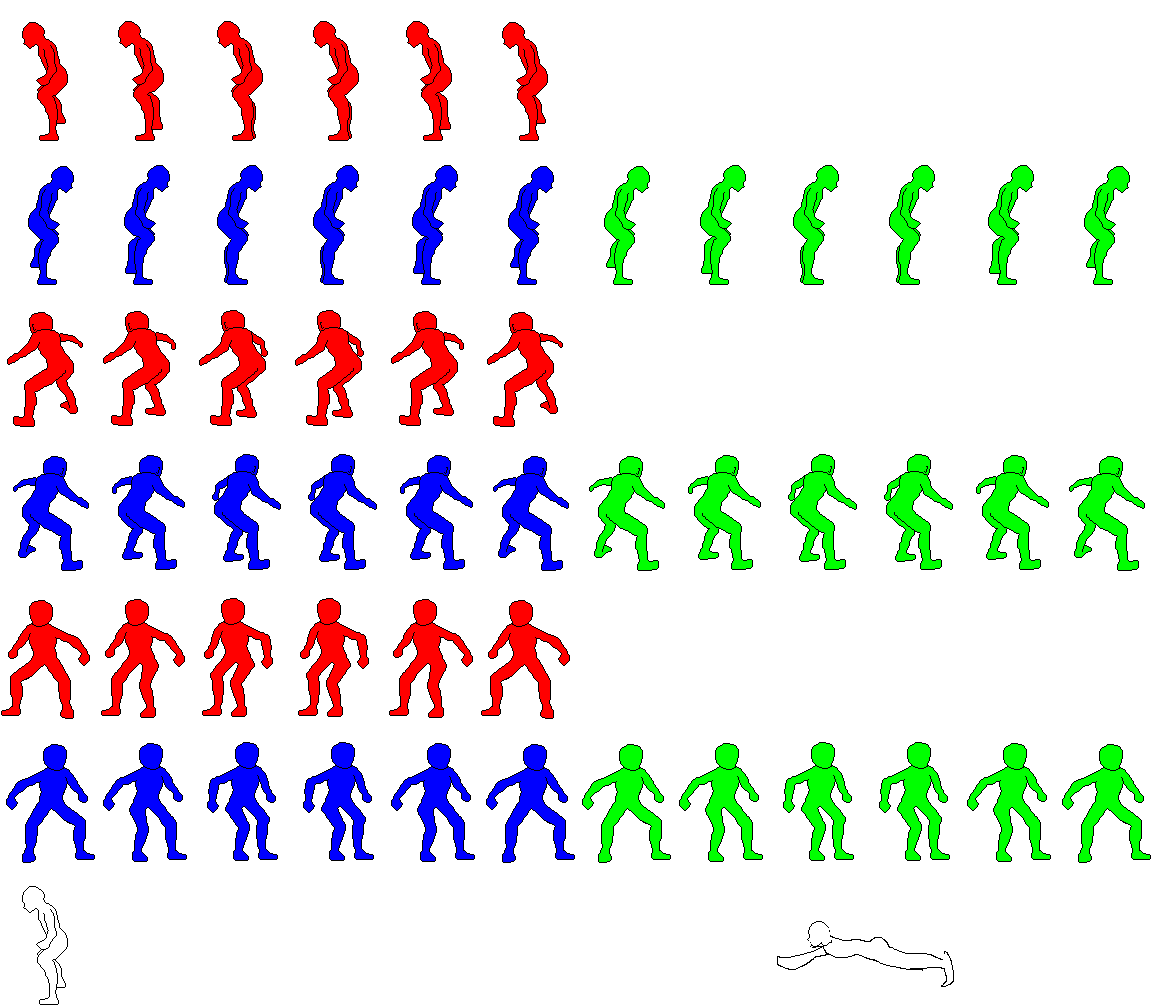
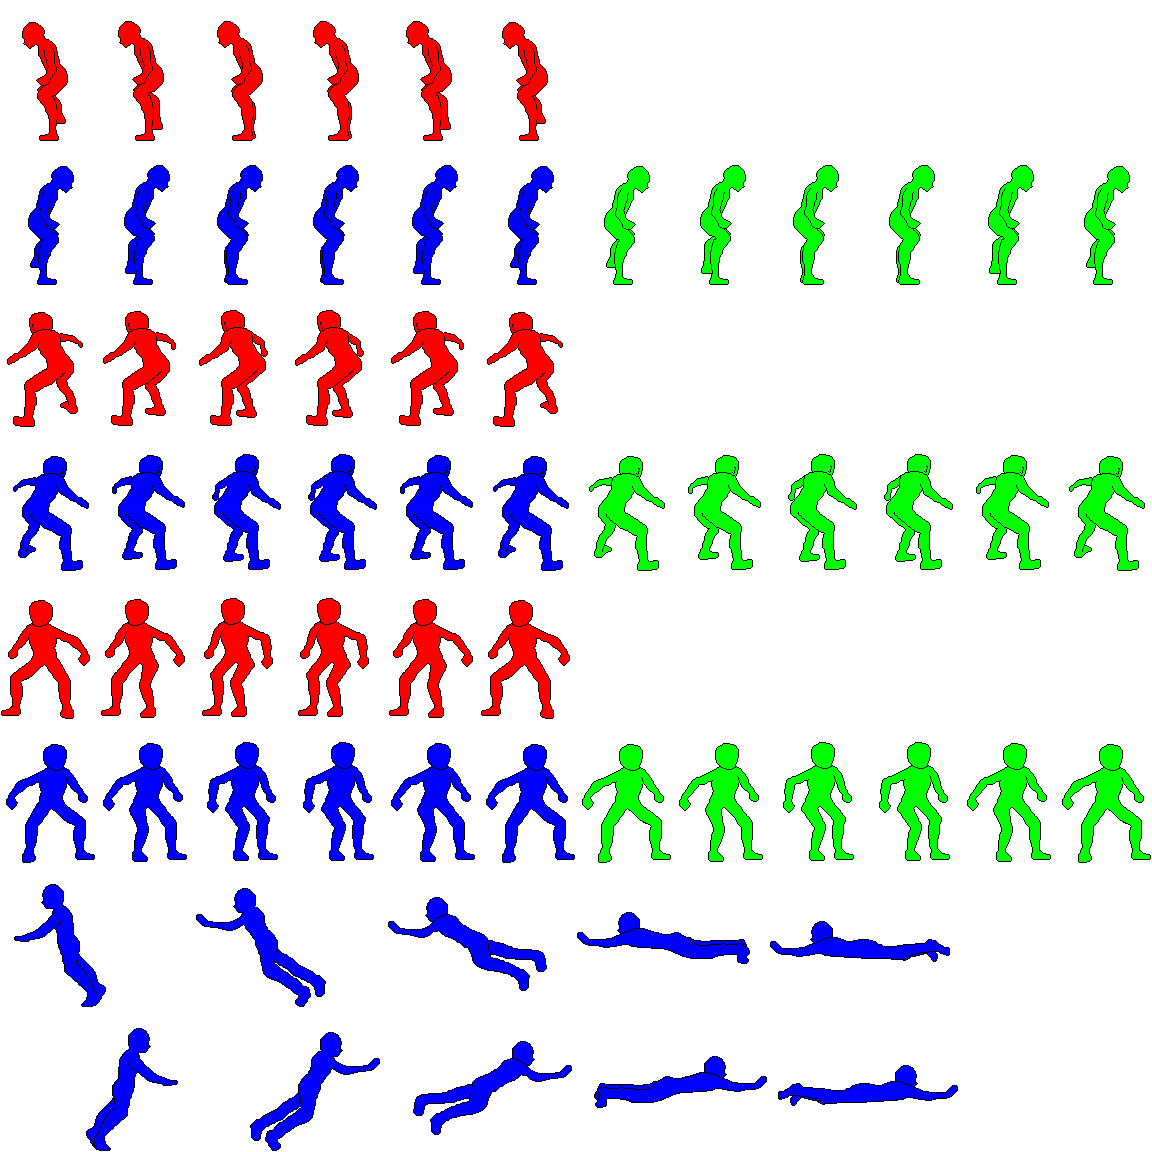
anime

diff --git a/client_win.c b/client_win.c
@@ -479,13 +479,16 @@ void WindowEvent(int clientID,int now)
                         case up_right_dir:
                             gClients[clientID].poi.y = gClients[clientID].poi.y-5;
                             gClients[clientID].poi.x = gClients[clientID].poi.x+5;
+                            chara_rect[clientID].y =1008;
                             break;
                         case right_dir:
                             gClients[clientID].poi.x = gClients[clientID].poi.x+5;
+                            chara_rect[clientID].y =1008;
                             break;
                         case right_down_dir:
                             gClients[clientID].poi.x = gClients[clientID].poi.x+5;
                             gClients[clientID].poi.y = gClients[clientID].poi.y+5;
+                            chara_rect[clientID].y =1008;
                             break;
                         case down_dir:
                             gClients[clientID].poi.y = gClients[clientID].poi.y+5;
@@ -493,13 +496,16 @@ void WindowEvent(int clientID,int now)
                         case down_left_dir:
                             gClients[clientID].poi.y = gClients[clientID].poi.y+5;
                             gClients[clientID].poi.x = gClients[clientID].poi.x-5;
+                            chara_rect[clientID].y =864;
                             break;
                         case left_dir:
                             gClients[clientID].poi.x = gClients[clientID].poi.x-5;
+                            chara_rect[clientID].y =864;
                             break;
                         case left_up_dir:
                             gClients[clientID].poi.x = gClients[clientID].poi.x-5;
                             gClients[clientID].poi.y = gClients[clientID].poi.y-5;
+                            chara_rect[clientID].y =864;
                             break;
                         }
                         Move(clientID,befx,befy,now);
@@ -547,6 +553,7 @@ void WindowEvent(int clientID,int now)
                 }
                 else{//tflagが10以上かつ2が押されていない
                     tflag = 0;
+                    gClients[clientID].anipatnum=0;
                 }
             }
             else if(gClients[clientID].tackle >= 1){//gClients[clientID].ADsta == 1かつ

diff --git a/client_system.c b/client_system.c
@@ -241,7 +241,15 @@ int Collision(int clientID,int befx,int befy){
 void Animation(int now){
 
     if(now >= gClients[clientID].anime){
-        if(dirflag == up_dir || dirflag == down_dir){
+
+        if(tflag >=1){
+            if(gClients[clientID].anipatnum < 5){
+                chara_rect[clientID].x = gClients[clientID].anipatnum*144;
+                gClients[clientID].anipatnum++;
+            }
+        }
+        
+        else if(dirflag == up_dir || dirflag == down_dir){
             if(gClients[clientID].anipatnum<6){
                 gClients[clientID].ADsta ? (chara_rect[clientID].y=0) : (chara_rect[clientID].y=144);
                 gClients[clientID].anipatnum++;
